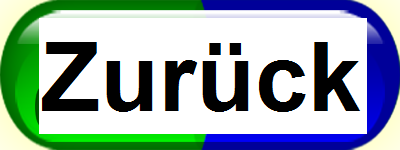
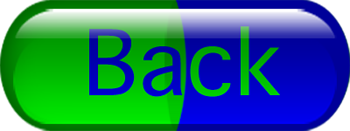
menue überarbeitet neue buttons neue anordnung etc

diff --git a/ColorBattle/src/de/htw/colorbattle/menuscreens/WlanMenu.java b/ColorBattle/src/de/htw/colorbattle/menuscreens/WlanMenu.java
@@ -36,36 +36,35 @@ public class WlanMenu implements Screen {
 				BattleColorConfig.HEIGHT);
 		ownBatch = new SpriteBatch();
 
-		float width = BattleColorConfig.WIDTH;
+		//float width = BattleColorConfig.WIDTH;
 		//float height = BattleColorConfig.HEIGHT;
 
 		// Grafikelemente anlegen
 
-		wallpaper = new Texture(Gdx.files.internal("GameScreenWallpaper.png"));
+		wallpaper = new Texture(Gdx.files.internal("menu/WLANMenuScreenWallpaper.png"));
 
 		joinWlanGameSprite = new TouchSprite(
 				Gdx.files.internal("menu/join_WLAN.png"), ownCamera);
-		joinWlanGameSprite.setPosition(
-				(width - joinWlanGameSprite.getWidth()) / 2.0f, 400.0f);
+		joinWlanGameSprite.setPosition(10.0f, 320.0f);
 
 		open2PlWlanGameSprite = new TouchSprite(
 				Gdx.files.internal("menu/2P_WLAN.png"), ownCamera);
 		open2PlWlanGameSprite.setPosition(
-				(width - open2PlWlanGameSprite.getWidth()) / 2.0f, 300.0f);
+				440.0f, 320.0f);
 
 		open3PlWlanGameSprite = new TouchSprite(
 				Gdx.files.internal("menu/3P_WLAN.png"), ownCamera);
 		open3PlWlanGameSprite.setPosition(
-				(width - open3PlWlanGameSprite.getWidth()) / 2.0f, 200.0f);
+				440.0f, 175.0f);
 
 		open4PlWlanGameSprite = new TouchSprite(
 				Gdx.files.internal("menu/4P_WLAN.png"), ownCamera);
 		open4PlWlanGameSprite.setPosition(
-				(width - open4PlWlanGameSprite.getWidth()) / 2.0f, 100.0f);
+				440.0f, 30.0f);
 
 		backSprite = new TouchSprite(Gdx.files.internal("menu/back_WLAN.png"),
 				ownCamera);
-		backSprite.setPosition((width - backSprite.getWidth()) / 2.0f, 0);
+		backSprite.setPosition(10, 30.0f);
 
 		// for Touch-Events
 		inputMulti = new InputMultiplexer();

diff --git a/ColorBattle/src/de/htw/colorbattle/menuscreens/MainMenu.java b/ColorBattle/src/de/htw/colorbattle/menuscreens/MainMenu.java
@@ -37,13 +37,13 @@ public class MainMenu implements Screen {
 
 		// Grafikelemente anlegen
 
-		wallpaper = new Texture(Gdx.files.internal("GameScreenWallpaper.png"));
+		wallpaper = new Texture(Gdx.files.internal("menu/MenuScreenWallpaper.png"));
 
 		wlanGameSprite = new TouchSprite(
 				Gdx.files.internal("menu/Button_WLAN.png"), ownCamera);
 		wlanGameSprite.setPosition((width - wlanGameSprite.getWidth()) / 2.0f,
-				height - wlanGameSprite.getHeight());
-		wlanGameSprite.setTouchDownPicture(Gdx.files.internal("menu/Button_WLAN_Touched.png"));
+				height - wlanGameSprite.getHeight()-15.0f);
+		wlanGameSprite.setTouchDownPicture(Gdx.files.internal("menu/Button_WLAN_hover.png"));
 		wlanGameSprite.highlightOnTouch = true;
 
 		btGameSprite = new TouchSprite(
@@ -54,7 +54,7 @@ public class MainMenu implements Screen {
 		exitGameSprite = new TouchSprite(
 				Gdx.files.internal("menu/ExitGame.png"), ownCamera);
 		exitGameSprite.setPosition((width - exitGameSprite.getWidth()) / 2.0f,
-				0);
+				+15.0f);
 
 		// for Touch-Events
 		inputMulti = new InputMultiplexer();

diff --git a/ColorBattle/src/de/htw/colorbattle/menuscreens/BluetoothMenu.java b/ColorBattle/src/de/htw/colorbattle/menuscreens/BluetoothMenu.java
@@ -37,13 +37,13 @@ public class BluetoothMenu implements Screen {
 
 		// Grafikelemente anlegen
 
-		wallpaper = new Texture(Gdx.files.internal("GameScreenWallpaper.png"));
+		wallpaper = new Texture(Gdx.files.internal("menu/MenuScreenWallpaper.png"));
 
 		joinBtGameSprite = new TouchSprite(
 				Gdx.files.internal("menu/Join_BT_Button.png"), ownCamera);
 		joinBtGameSprite.setPosition(
 				(width - joinBtGameSprite.getWidth()) / 2.0f, height
-						- joinBtGameSprite.getHeight());
+						- joinBtGameSprite.getHeight()-15.0f);
 
 		openBtGameSprite = new TouchSprite(
 				Gdx.files.internal("menu/Open_BT_Button.png"), ownCamera);
@@ -53,7 +53,7 @@ public class BluetoothMenu implements Screen {
 
 		backSprite = new TouchSprite(Gdx.files.internal("menu/back.png"),
 				ownCamera);
-		backSprite.setPosition((width - backSprite.getWidth()) / 2.0f, 0);
+		backSprite.setPosition((width - backSprite.getWidth()) / 2.0f, +15.0f);
 
 		// for Touch-Events
 		inputMulti = new InputMultiplexer();
